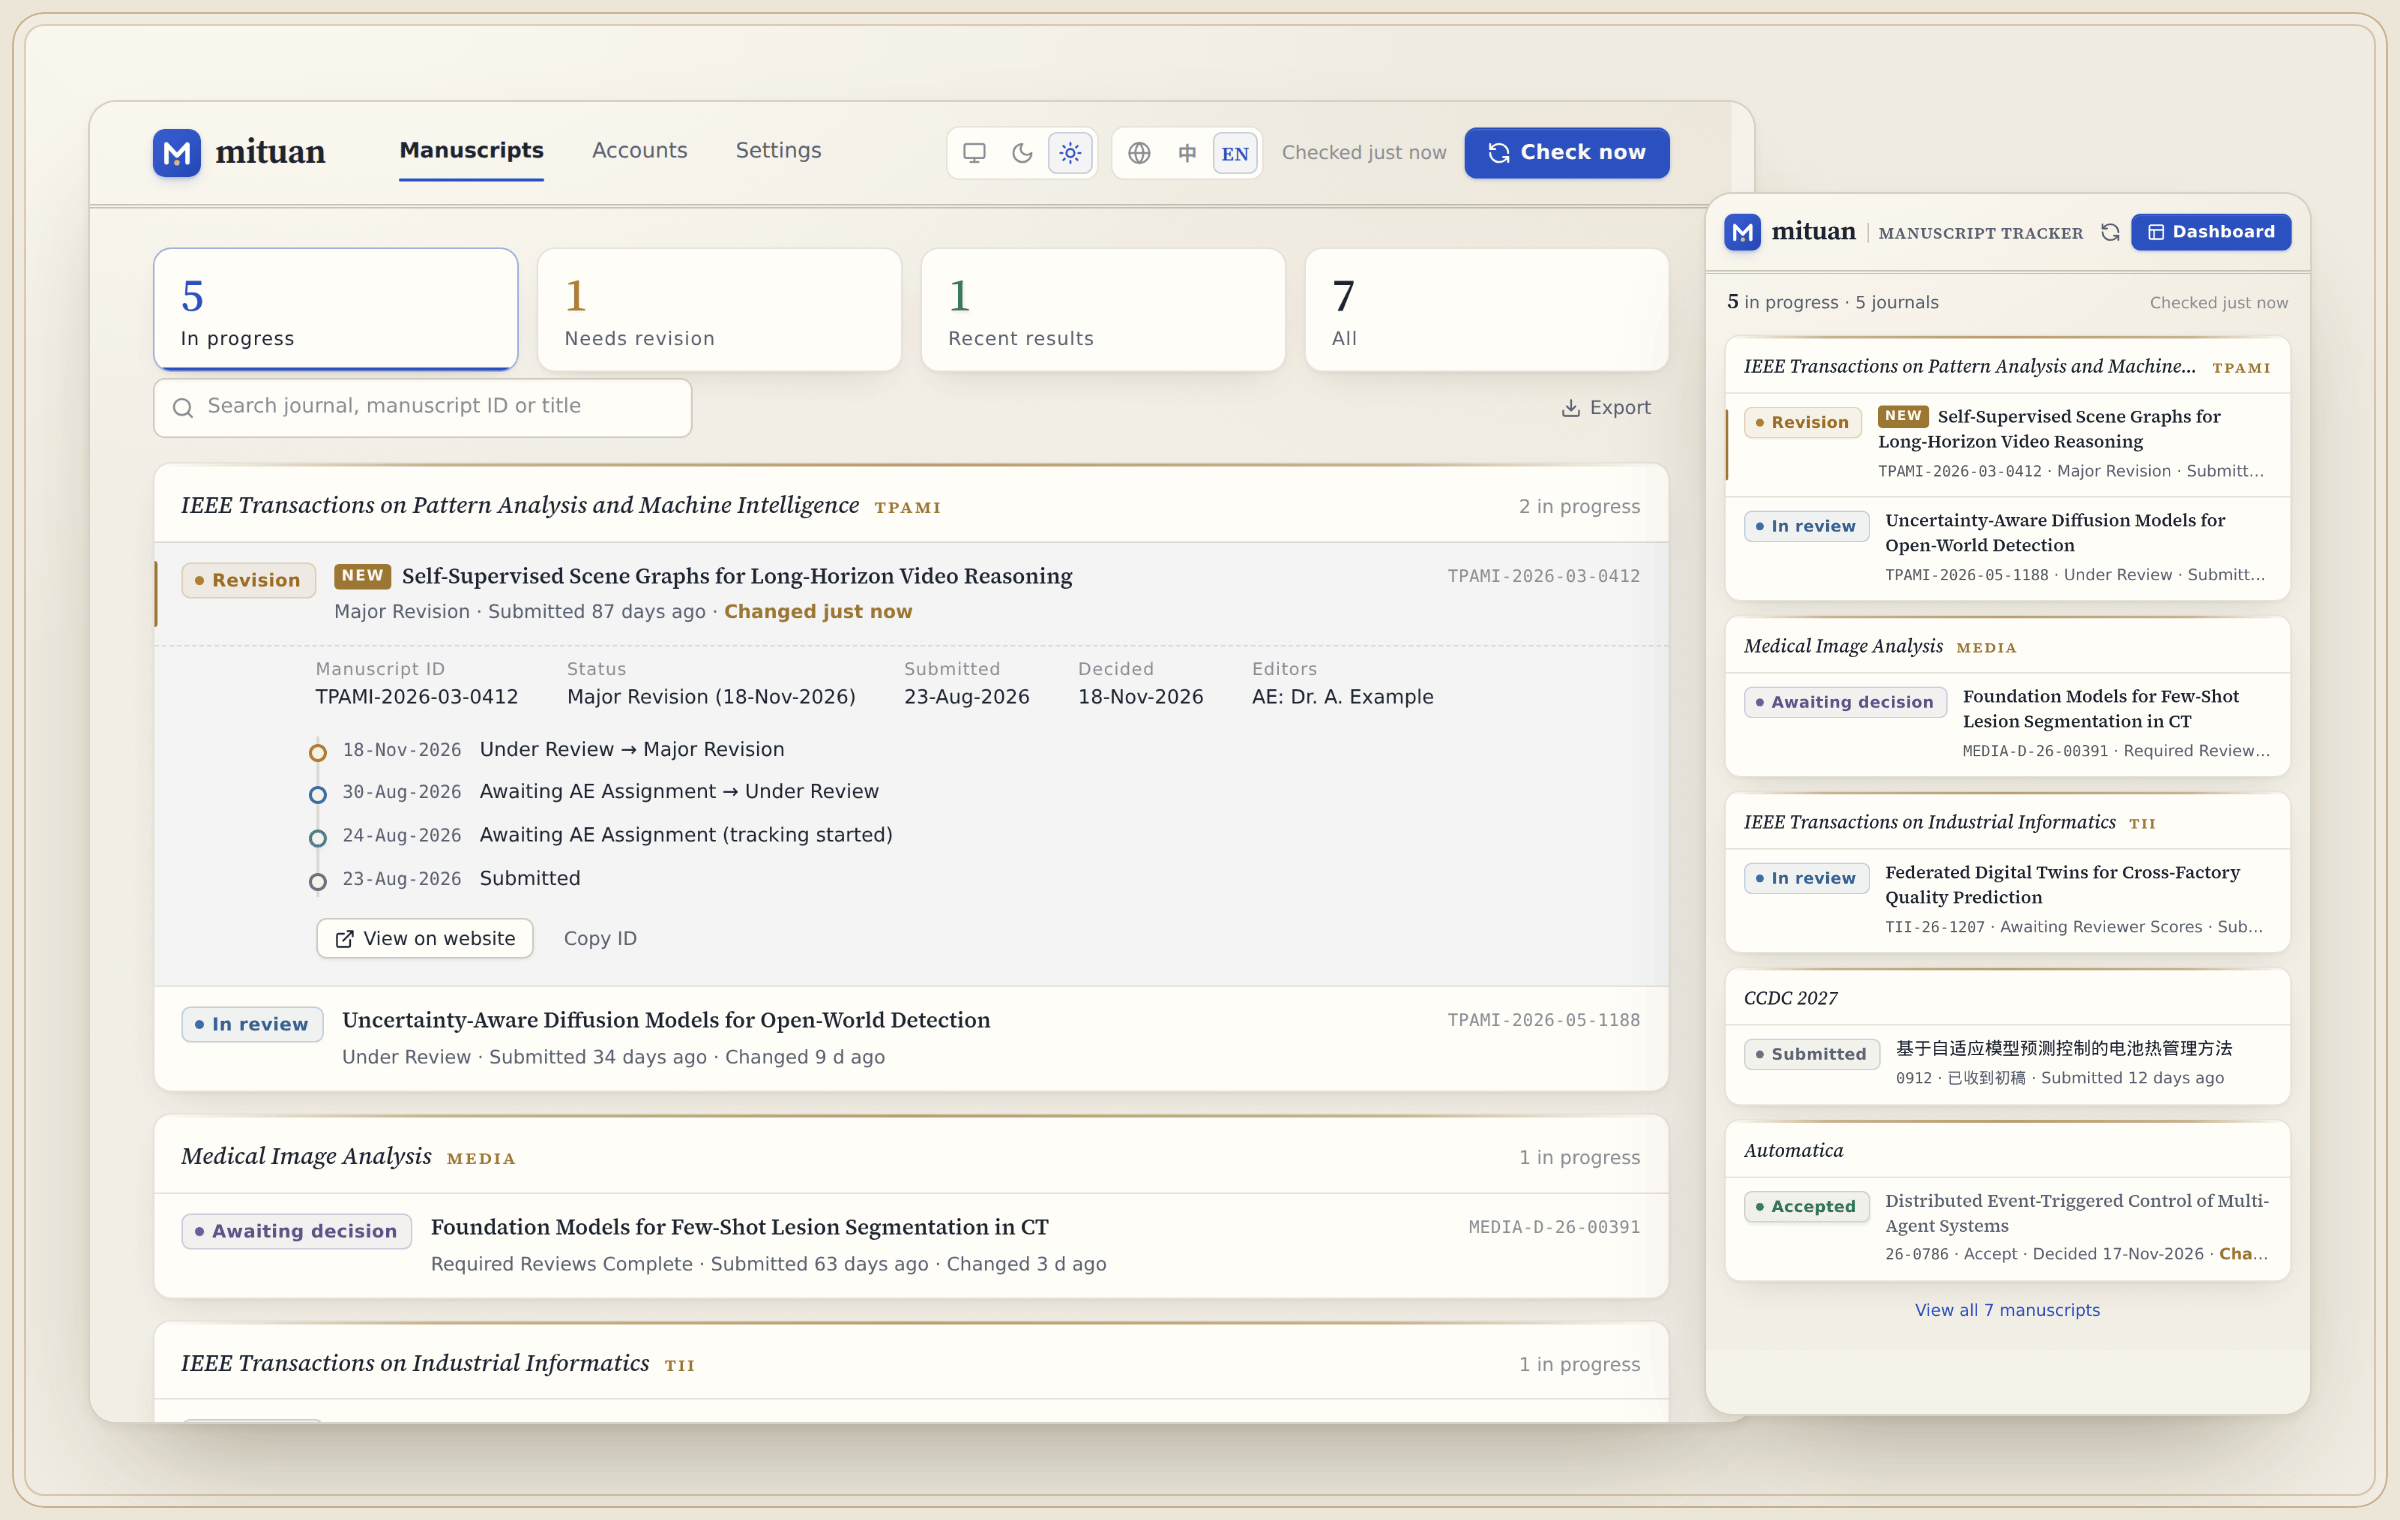
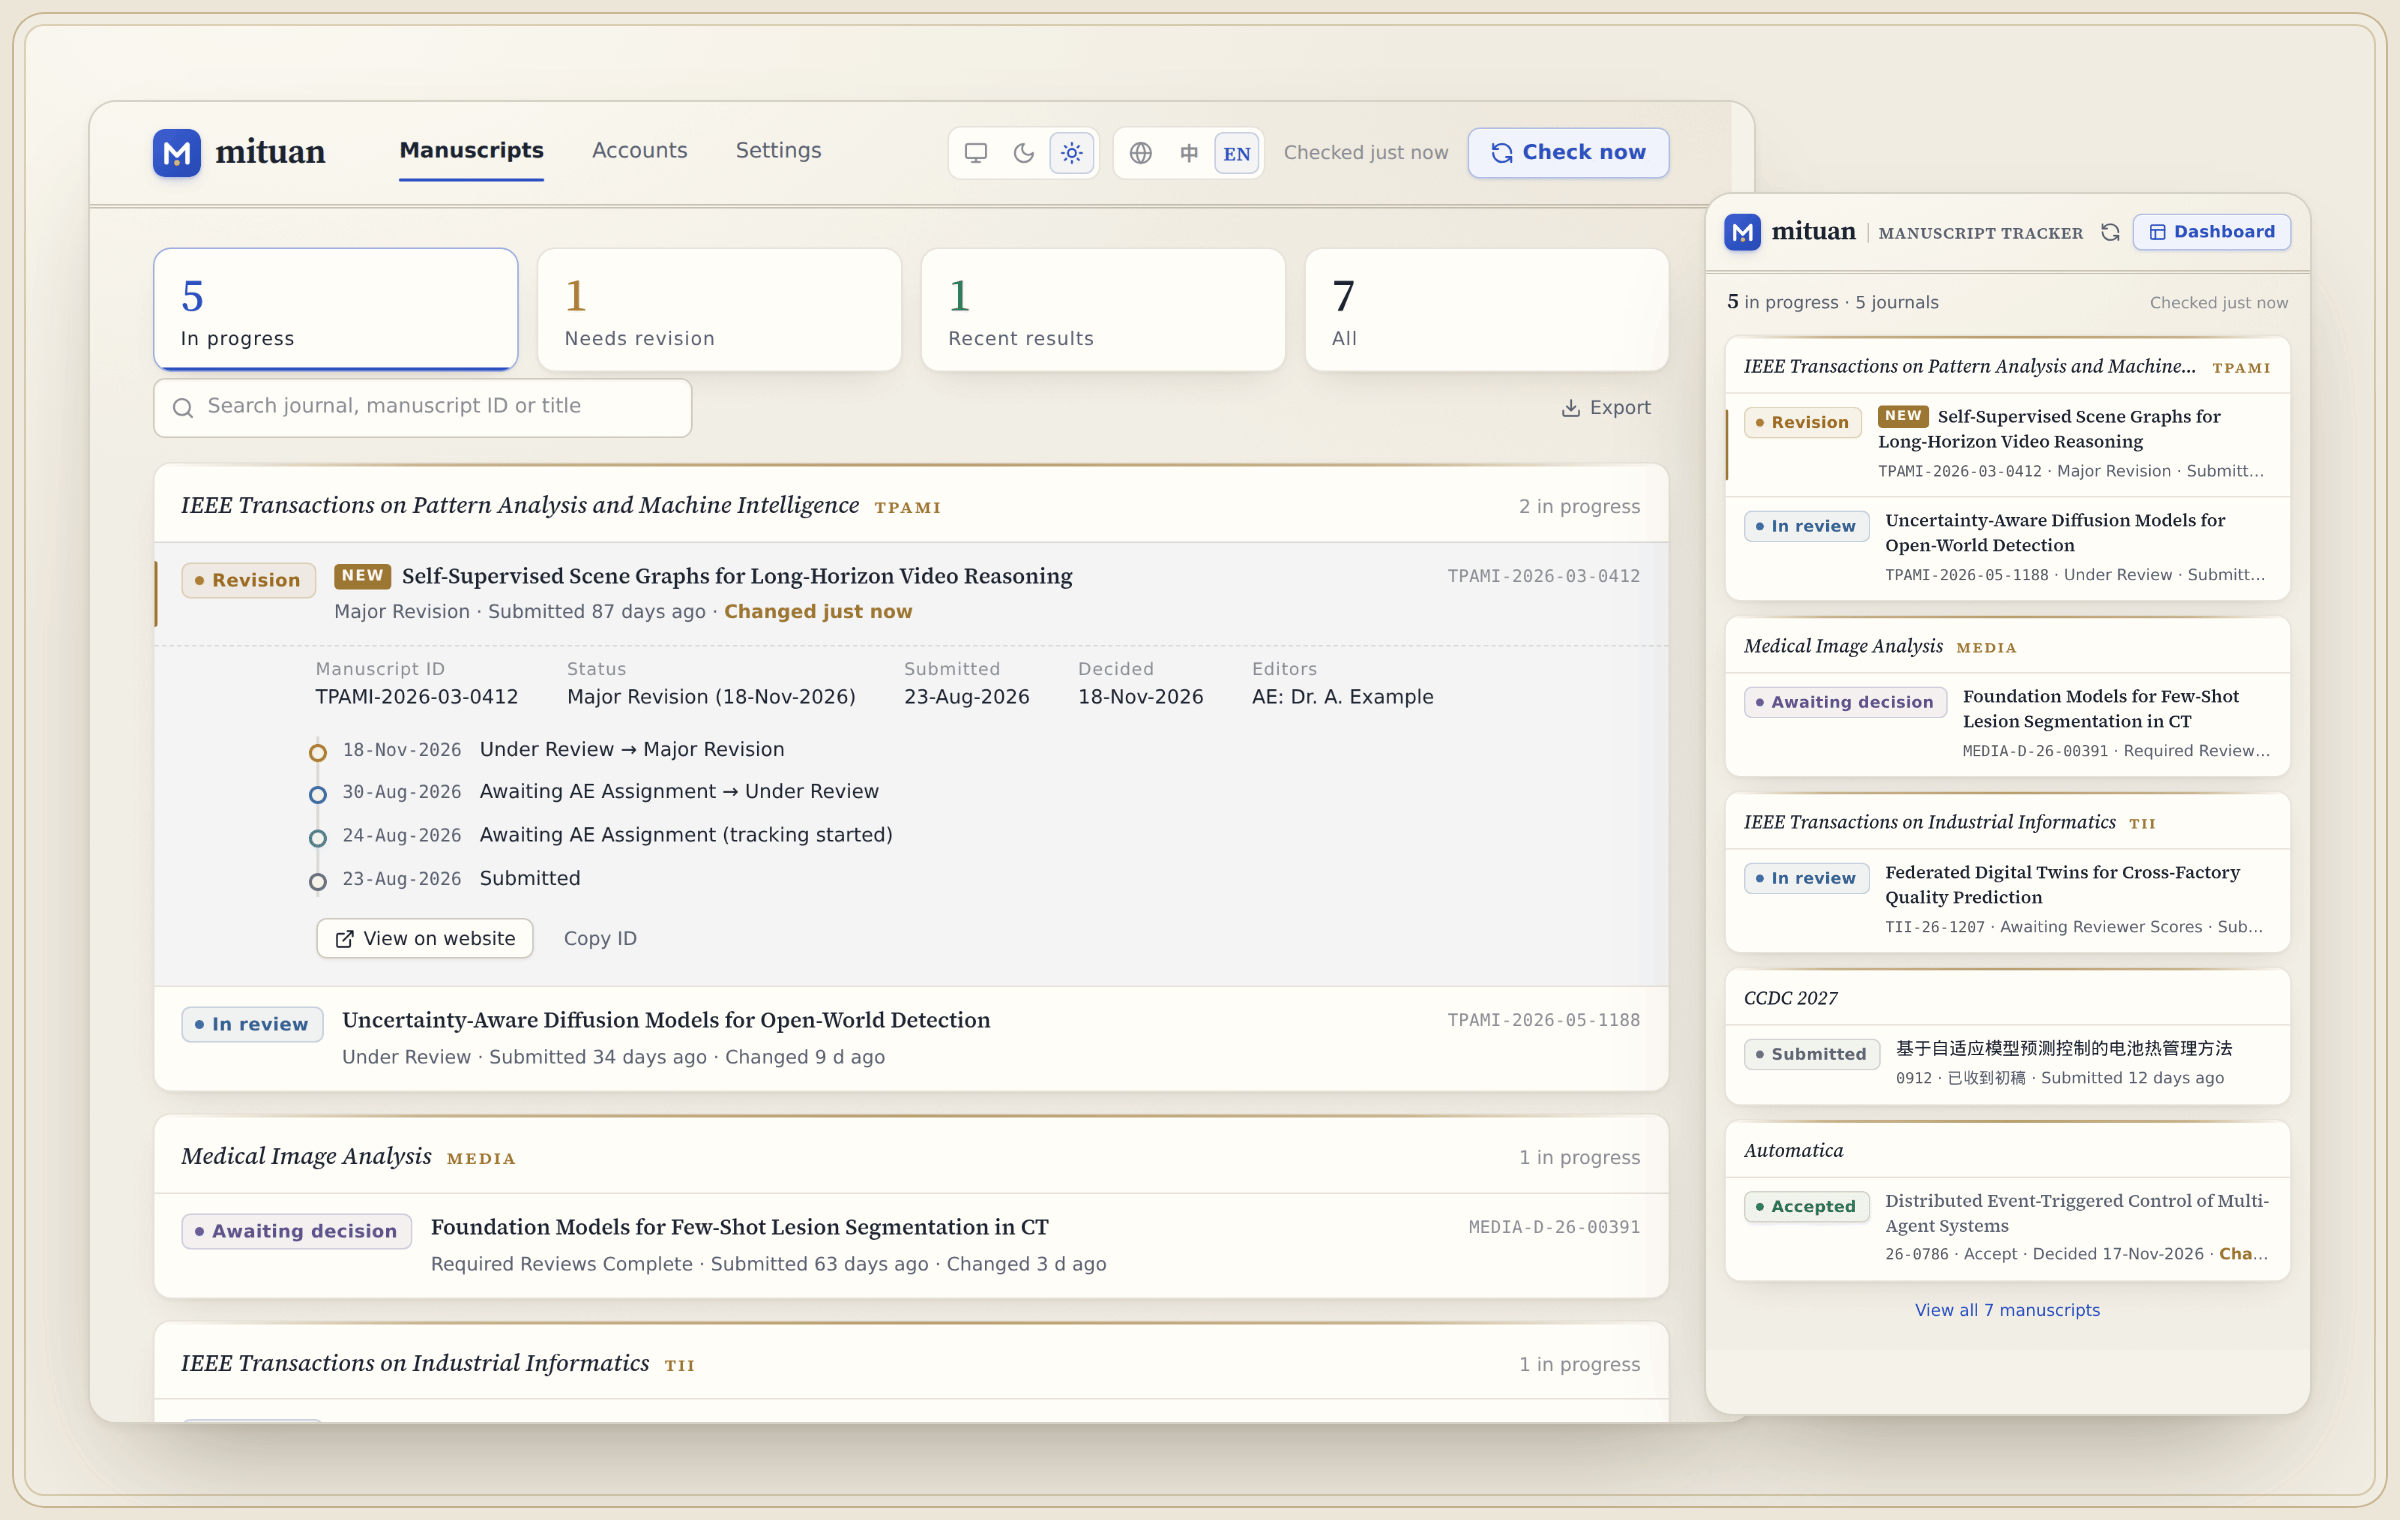
feat(ui): replace the solid blue primary buttons with tinted ones
Primary buttons now use a light brand-tinted surface with brand-coloured text and a thin border, mixed from the theme's accent and raised-surface colours, so each theme gets its own matching shade instead of the same solid blue block. The README showcase is re-shot to match.

Changed region(s): [[0.4375, 0.0618, 0.7188, 0.1237], [0.875, 0.1237, 0.9688, 0.1855]]

diff --git a/ui/style.css b/ui/style.css
@@ -12,8 +12,14 @@
   --line: rgba(84, 66, 38, .14); --line-strong: rgba(84, 66, 38, .28);
   --text: #1c2330; --muted: #596070; --faint: #8b8d94;
   --accent-rgb: 43, 80, 192; --accent-text: #2b50c0;
-  /* 品牌色（主按钮、logo、开关）：靛蓝纯色，亮暗两种主题都是“蓝底白字”，暗色下略提亮。悬停加深、按下再深一级 */
-  --brand: #2b50c0; --brand-hover: #2443a8; --brand-active: #1f3a91; --brand-rgb: 43, 80, 192; --on-brand: #fff;
+  /* 品牌色（logo、开关、复选框）：靛蓝，暗色下略提亮。按钮不用它填色 */
+  --brand: #2b50c0; --brand-rgb: 43, 80, 192;
+  /* 主按钮（扩展的 button.primary、官网的 .btn.primary）：按钮底色里调进一点品牌色，配品牌色文字和细边。
+     由 --accent-* 和 --raise 算出，暗色主题只要改这几个基础色，这里不用重写；直接叠半透明会在米色底上发灰 */
+  --pri-bg: color-mix(in srgb, var(--accent-text) 7%, var(--raise));
+  --pri-bg-hover: color-mix(in srgb, var(--accent-text) 12%, var(--raise));
+  --pri-bg-active: color-mix(in srgb, var(--accent-text) 16%, var(--raise));
+  --pri-line: rgba(var(--accent-rgb), .32); --pri-line-hover: rgba(var(--accent-rgb), .55);
   --gilt: #9c7633; --gilt-rgb: 156, 118, 51; --on-gilt: #fbf8f1;
   /* 按钮的立体感只留一道顶部高光和一层很浅的投影 */
   --btn-hi: inset 0 1px 0 rgba(255, 255, 255, .6); --btn-drop: 0 1px 2px rgba(40, 32, 18, .07);
@@ -35,7 +41,7 @@
   --line: rgba(236, 226, 206, .1); --line-strong: rgba(236, 226, 206, .2);
   --text: #ebe6dc; --muted: #a8a397; --faint: #7a776f;
   --accent-rgb: 138, 163, 245; --accent-text: #9fb3f6;
-  --brand: #3d5fd6; --brand-hover: #4b6ce0; --brand-active: #3554c2; --brand-rgb: 61, 95, 214; --on-brand: #fff;
+  --brand: #3d5fd6; --brand-rgb: 61, 95, 214;
   --gilt: #c9a96b; --gilt-rgb: 201, 169, 107; --on-gilt: #141619;
   --btn-hi: inset 0 1px 0 rgba(255, 255, 255, .05); --btn-drop: 0 1px 2px rgba(0, 0, 0, .35);
   --ok: #7cc4a0; --warn: #dcaa5f; --bad: #e0908b; --idle: #8a8780;
@@ -52,7 +58,7 @@
     --line: rgba(236, 226, 206, .1); --line-strong: rgba(236, 226, 206, .2);
     --text: #ebe6dc; --muted: #a8a397; --faint: #7a776f;
     --accent-rgb: 138, 163, 245; --accent-text: #9fb3f6;
-    --brand: #3d5fd6; --brand-hover: #4b6ce0; --brand-active: #3554c2; --brand-rgb: 61, 95, 214; --on-brand: #fff;
+    --brand: #3d5fd6; --brand-rgb: 61, 95, 214;
     --gilt: #c9a96b; --gilt-rgb: 201, 169, 107; --on-gilt: #141619;
     --btn-hi: inset 0 1px 0 rgba(255, 255, 255, .05); --btn-drop: 0 1px 2px rgba(0, 0, 0, .35);
     --ok: #7cc4a0; --warn: #dcaa5f; --bad: #e0908b; --idle: #8a8780;
@@ -125,11 +131,11 @@ button, .button { appearance: none; border: 1px solid var(--line-strong); backgr
        transition: transform .12s, border-color .18s, background .18s, box-shadow .18s, color .18s; }
 button:hover, .button:hover { border-color: rgba(var(--accent-rgb), .55); }
 button:active { transform: translateY(1px); }
-/* 主按钮：品牌色纯色、白字，不用渐变和彩色光晕；亮暗两种主题是同一种样子 */
-button.primary, .button.primary { background: var(--brand); border-color: transparent; color: var(--on-brand); font-weight: 600; letter-spacing: .02em;
-       box-shadow: inset 0 1px 0 rgba(255, 255, 255, .12), 0 1px 2px rgba(var(--brand-rgb), .3); }
-button.primary:hover, .button.primary:hover { background: var(--brand-hover); border-color: transparent; }
-button.primary:active, .button.primary:active { background: var(--brand-active); }
+/* 主按钮：浅品牌色底、品牌色文字和细边，不用实心色块，颜色见 --pri-* */
+button.primary, .button.primary { background: var(--pri-bg); border-color: var(--pri-line); color: var(--accent-text); font-weight: 600; letter-spacing: .01em;
+       box-shadow: var(--btn-hi), 0 1px 2px rgba(var(--accent-rgb), .14); }
+button.primary:hover, .button.primary:hover { background: var(--pri-bg-hover); border-color: var(--pri-line-hover); }
+button.primary:active, .button.primary:active { background: var(--pri-bg-active); }
 button.ghost { background: none; border-color: transparent; box-shadow: none; color: var(--muted); }
 button.ghost:hover { color: var(--text); background: var(--hover); border-color: transparent; }
 button.danger { color: var(--bad); }
